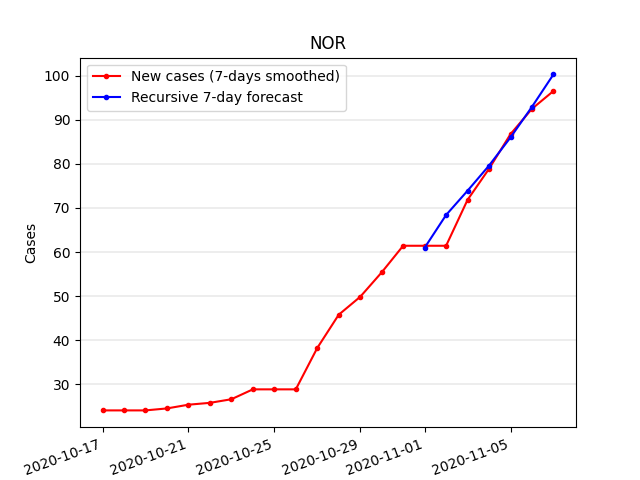
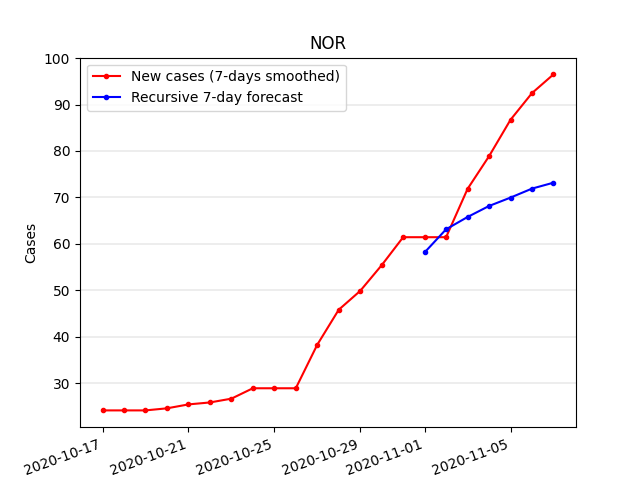
updated lstm predictions with new sample countries

diff --git a/plotting/prediction_plotting.py b/plotting/prediction_plotting.py
@@ -1,0 +1,39 @@
+import matplotlib.pyplot as plt
+from matplotlib.dates import date2num
+import pandas as pd
+from datetime import datetime, timedelta
+
+hw_pred = pd.read_csv("../predictions/hw_predictions.csv")  # File has moved (?)
+lstm_pred = pd.read_csv("../predictions/lstm_predictions.csv")
+rf_pred = pd.read_csv("../predictions/rf_predictions.csv")
+euro_data = pd.read_csv("../data/euro_countries_filled.csv")
+euro_data = euro_data[euro_data["date"] >= "2020-10-17"]
+euro_data = euro_data[euro_data["date"] <= "2020-11-07"]
+
+nor_data = euro_data[euro_data["iso_code"] == "NOR"]
+recent_dateTimes = [datetime.fromisoformat(d) for d in nor_data["date"].values]
+recent_dates = date2num(recent_dateTimes)
+pred_dates = recent_dates[-7:]
+
+fig, axs = plt.subplots(2, 2)
+fig.set_size_inches(1920/150, 1080/150)
+
+for i, isoCode in enumerate(["NOR", "SWE", "FIN", "BEL"]):
+    hw_y = hw_pred["Holt-Winter Additive + Damped {:s}".format(isoCode)]
+    lstm_y = lstm_pred["lstm_{:s}".format(isoCode)]
+    rf_y = rf_pred["rf_{:s}".format(isoCode)]
+    country_data = euro_data[euro_data["iso_code"] == isoCode]
+    recent_y = country_data["new_cases_smoothed_per_million"]
+    axs[i // 2, i % 2].plot_date(pred_dates, hw_y, "r-")
+    axs[i // 2, i % 2].plot_date(pred_dates, lstm_y, "m-")
+    axs[i // 2, i % 2].plot_date(pred_dates, rf_y, "g-")
+    axs[i // 2, i % 2].plot_date(recent_dates, recent_y, "-")
+    axs[i // 2, i % 2].set_title(isoCode)
+
+for ax in axs.flat:
+    ax.set(xlabel="Date", ylabel="Cases per million")
+    plt.setp(ax.get_xticklabels(), rotation=30, ha="right")
+
+fig.tight_layout(pad=3)
+fig.suptitle("Prediction of new cases (7-days smoothed) for sample countries")
+fig.savefig("../plots/sample_pred.png")

diff --git a/lstm/lstm_all_countries.py b/lstm/lstm_all_countries.py
@@ -1,21 +1,14 @@
-from numpy.random import seed
-from tensorflow import random as tf_random
-
 import pandas as pd
 import json
 from math import sqrt
 import matplotlib.pyplot as plt
 from datetime import date, datetime, timedelta
-from numpy import concatenate, zeros
+from numpy import concatenate
 from sklearn.preprocessing import MinMaxScaler
 from sklearn.metrics import mean_squared_error
 from keras.models import Sequential
 from keras.layers import Dense
 from keras.layers import LSTM
-
-
-# tf_random.set_seed(1)
-# seed(1)
 
 
 def series_to_in_out_pairs(data, n_in=1, n_out=1, leave_cols=None):
@@ -210,14 +203,14 @@ for code in iso_codes:
     country_mse_list.append(country_mse)
 
     # Demo countries
-    if code in ["DEU", "ESP", "NOR", "SWE"]:
+    if code in ["NOR", "SWE", "FIN", "BEL"]:
         recent_history = raw_euro_data[raw_euro_data["iso_code"] == code]
         recent_history = recent_history[recent_history["date"] >= "2020-10-17"]
         recent_history = recent_history[recent_history["date"] <= "2020-11-07"]
         recent_y = recent_history["new_cases_smoothed_per_million"].values
         recent_dates = [datetime.fromisoformat(d) for d in recent_history[["date"]].values.flatten()]
         country_RMSE = sqrt(country_mse)
-        print("{:s} 7-days-ahead RMSE: {:.2f}".format(code, country_mse))
+        print("{:s} 7-days-ahead RMSE: {:.2f}".format(code, country_RMSE))
 
         plt.plot_date(recent_dates, recent_y, "r.-")
         plt.plot_date(pred_dates, pred_y, "b.-")
